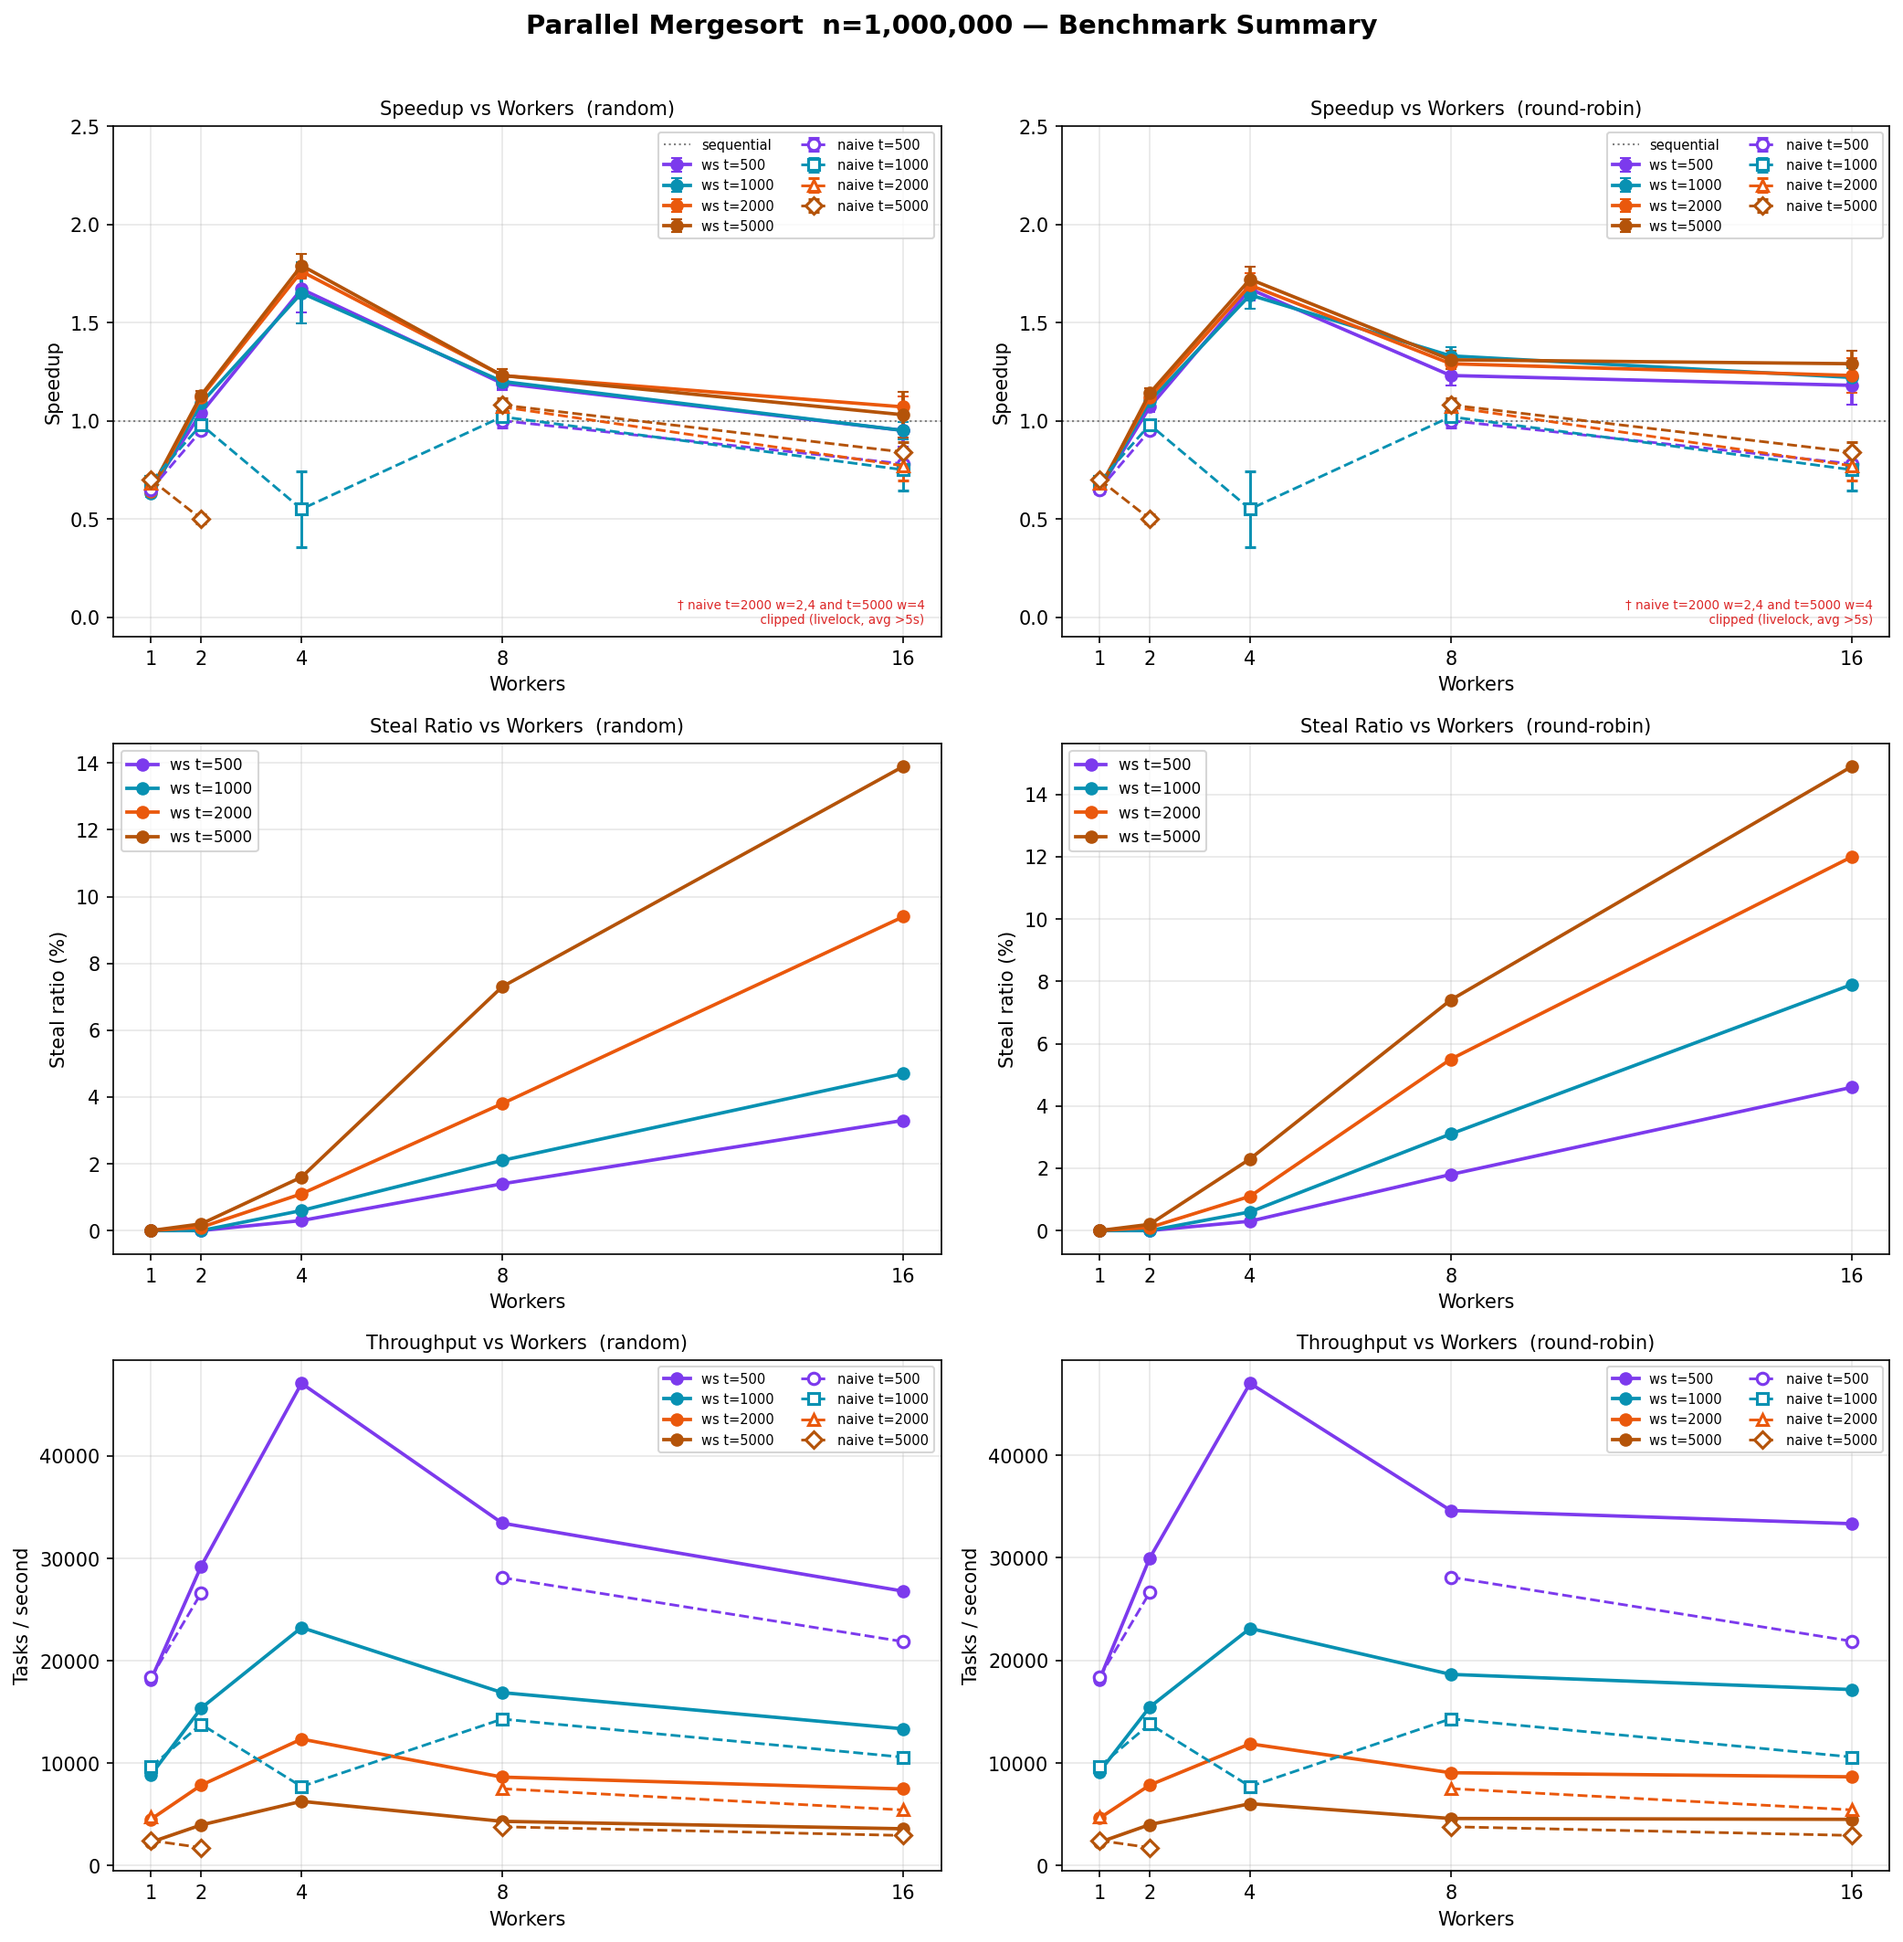
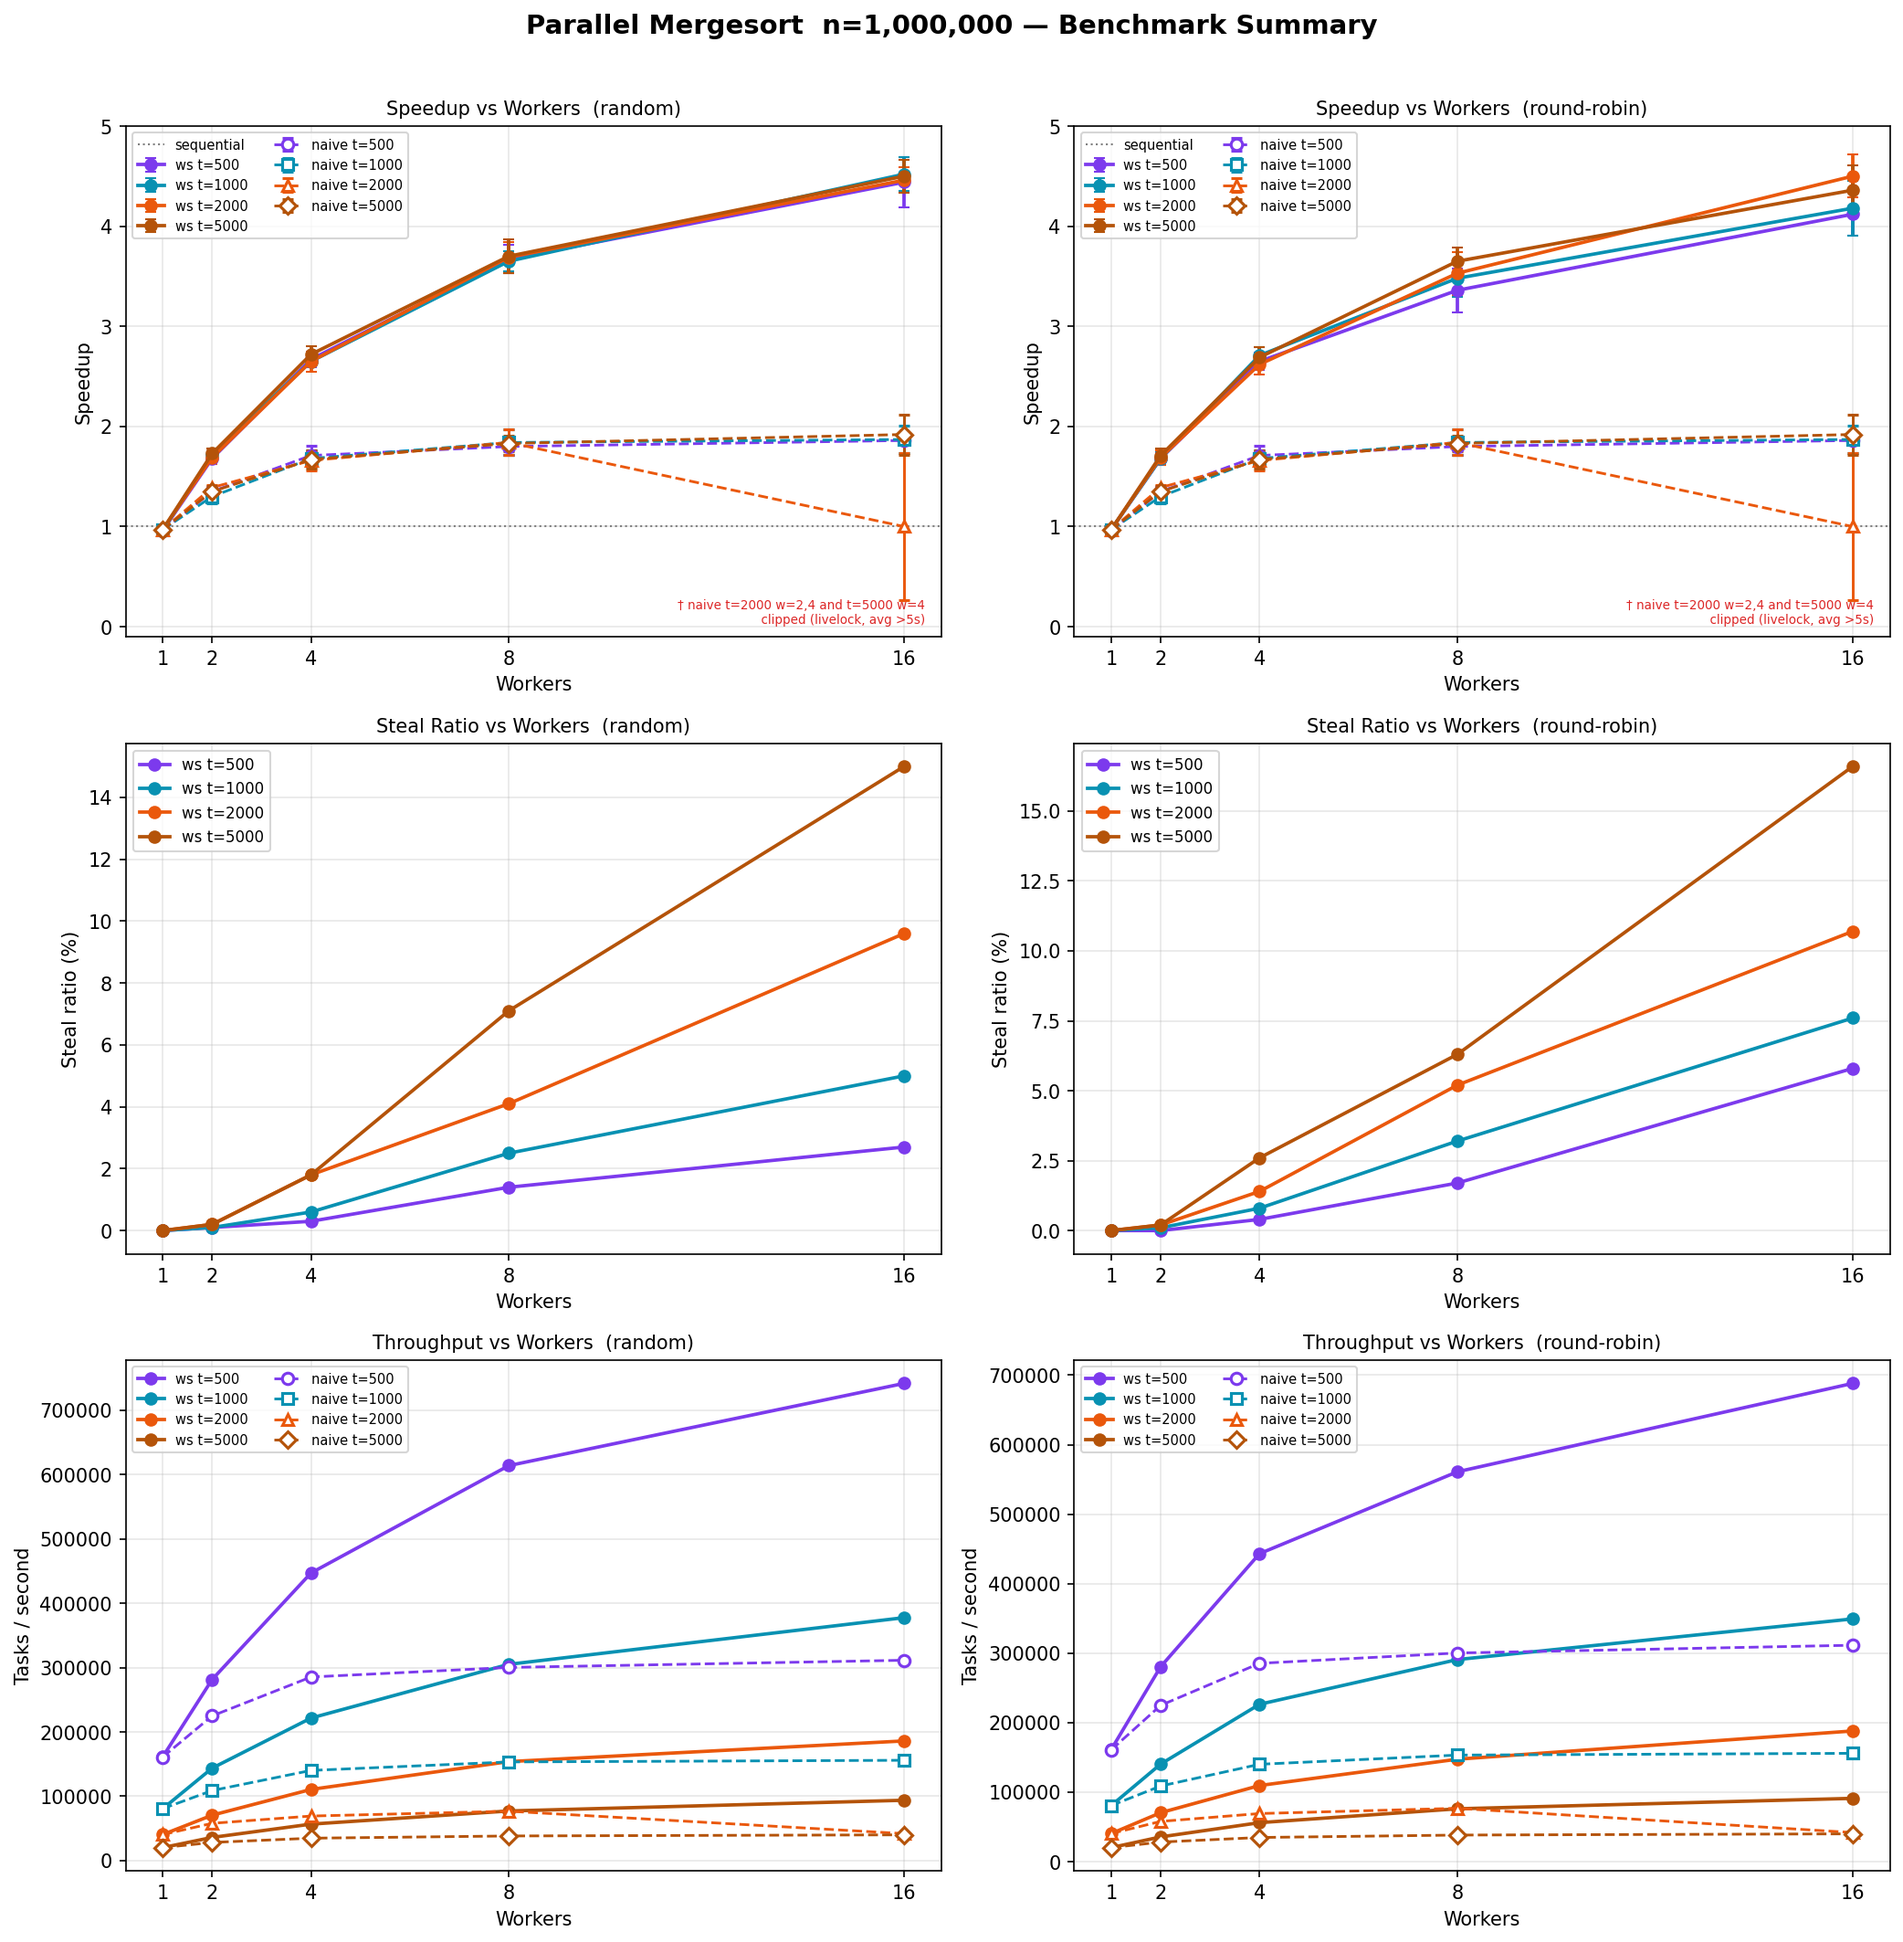
minimal change, removed previous plot

diff --git a/work-steal/outputs/plot_mergesort_throughput.py b/work-steal/outputs/plot_mergesort_throughput.py
@@ -63,7 +63,7 @@ def clip_outliers(rows):
             r['avg']        = None
     return rows
 
-rows = parse_results('result-mergesort2.txt')
+rows = parse_results('result-mergesort.txt')
 rows = add_naive_throughput(rows)
 rows = clip_outliers(rows)
 
@@ -169,7 +169,7 @@ for col, policy in enumerate(policies):
     ax.grid(True, alpha=0.3)
 
 plt.tight_layout()
-plt.savefig('mergesort_combined_throughput2.png',
+plt.savefig('mergesort_combined_throughput.png',
             dpi=150, bbox_inches='tight')
 plt.close()
-print('Saved mergesort_combined_throughput2.png')
+print('Saved mergesort_combined_throughput.png')
